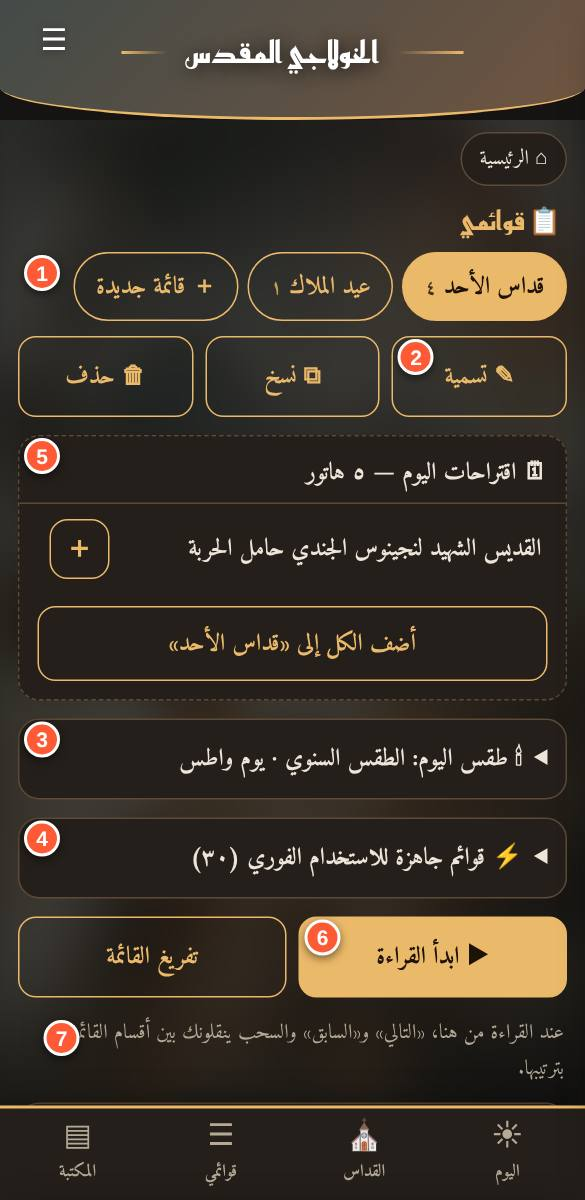
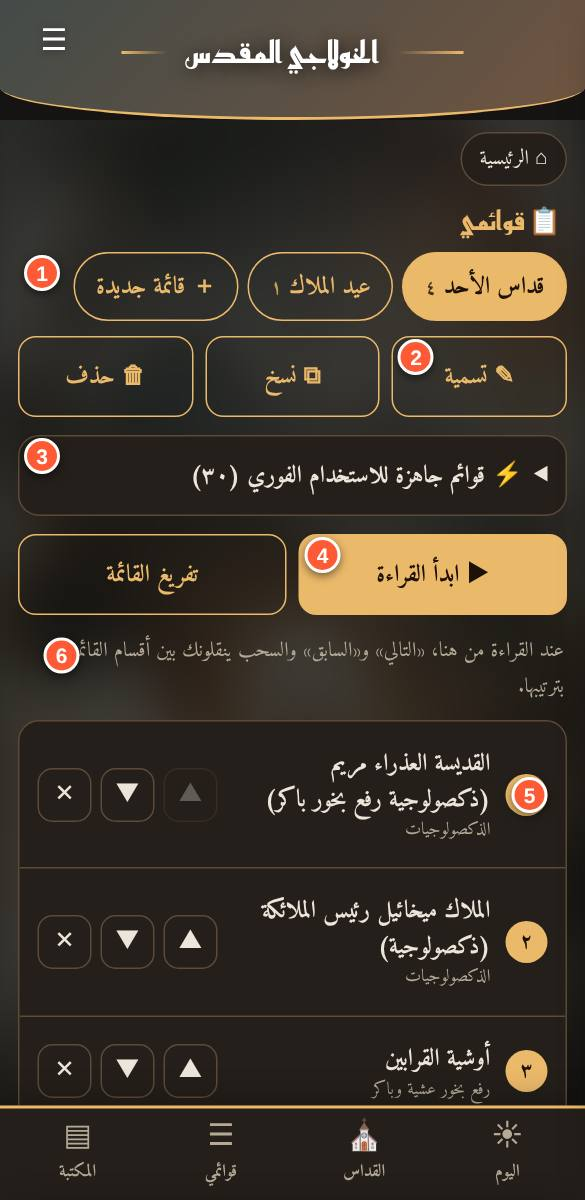
ملاحظات الغطاس والصوم والآلام والقيامة والصعود والعنصرة في طقس اليوم، وتصحيح الشعانين وسبت لعازر
Claude-Session: https://claude.ai/code/session_01TxsQH8W41ZBNhnMhe9bVaK

Changed region(s): [[0.0308, 0.37, 0.9846, 0.925], [0.0615, 0.37, 0.0923, 0.4008]]

diff --git a/calendar.js b/calendar.js
@@ -170,6 +170,7 @@ function rite(dt){
   if(holyw)r='الطقس الحزايني';
   else if(palm||cross)r='الطقس الشعانيني';
   else if(joy)r='الطقس الفرايحي';
+  else if(rel===-8)r='الطقس السنوي';
   else if(lent||jonah)r='الطقس الصيامي';
   else if(c.m===4)r='الطقس الكيهكي';
   else r='الطقس السنوي';
@@ -179,9 +180,10 @@ function rite(dt){
   /* الليلويا وطاي شوري */
   if(!thu&&!jsat){
     var f1=joy||(rel===-8)||(fastN&&(sat||sun))||cross||(c.m===1&&c.d<17);
-    if(cross)h.push('ليلويا فاي بيه بي','تي شوري');
+    if(palm)h.push('ليلويا فاي بيه بي','طاي شوري');
+    else if(cross)h.push('ليلويا فاي بيه بي','تي شوري');
     else if(f1)h.push('ليلويا فاي بيه بي','طاي شوري');
-    else if((lent||jonah)&&!sat&&!sun)h.push('ليلويا إي إيه إيخون','إنثو تيه تي شوري');
+    else if((lent||jonah||holyw)&&!sat&&!sun)h.push('ليلويا إي إيه إيخون','إنثو تيه تي شوري');
     else if((!fastN&&!lent&&!jonah&&(wd===3||wd===5))||(fastN&&!sat&&!sun)||((lent||palm)&&(sat||sun)))h.push('ليلويا چيه إفميه في','تي شوري');
   }
   /* چيه آف ... */
@@ -205,6 +207,16 @@ function rite(dt){
   if(m29)on.push('٢٩ من الشهر القبطي (تذكار البشارة والميلاد والقيامة): الطقس فرايحي، وتُصلَّى مزامير الساعتين الثالثة والسادسة فقط، ولا صوم انقطاعي ولا ميطانيات. إن وقع في أربعاء أو جمعة أو في الأصوام يُكتفى بعدم الصوم الانقطاعي دون الفطر. قراءات اليوم كما في القطمارس، ويُقال چيه آك طونك حتى لو كان أحدا. (ص ١٢٠–١٢١)');
   if(c.m===4&&c.d<=27)on.push('شهر كيهك: في الأيام ما عدا السبوت والآحاد تُصلَّى الساعات الثالثة والسادسة والتاسعة ويُقال «الليلويا چيه إفميه في» و«تي شوري»؛ أما السبوت والآحاد فتُصلَّى الثالثة والسادسة فقط ويُقال «الليلويا فاي بيه بي» و«طاي شوري». القسمة الخاصة بصوم وعيد الميلاد، ويُقال چيه آك إي طوال الشهر حتى في الآحاد. (ص ٣)');
   if((c.m===4&&c.d>=28)||(c.m===5&&c.d<=6))on.push('الميلاد: الطقس الفرايحي من ٢٩ كيهك إلى ٦ طوبة، ويُقال چيه آف ماسك من برامون الميلاد إلى عيد الختان، وتُصام الأربعاء والجمعة بين الميلاد والختان بلا انقطاع عن الطعام لأنها أيام فرايحي، ولا يجوز صومهما إن وقعا في عيد الميلاد نفسه. البرامون بالطقس السنوي وتُصلَّى المزامير حتى الساعة الثانية عشرة. لا تُصلَّى المزامير في عيد الميلاد قبل تقديم الحمل. (ص ٨٨–٨٩)');
+  if((c.m===5&&c.d>=11&&c.d<=13)||(c.m===5&&c.d===10))on.push('الغطاس: لا يجوز صوم الأربعاء أو الجمعة إن وقعا في عيد الميلاد أو الغطاس. الطقس الفرايحي من ١١ طوبة (الغطاس) إلى ١٣ طوبة (عرس قانا). يُصلَّى برامون الغطاس بالطقس السنوي ويكون قداسه متأخرا (صوم انقطاعي إلا إن وقع سبتا أو أحدا). يُقال چيه آكتشي أومس من البرامون إلى ثاني يوم العيد، وتُقال قسمة الغطاس من البرامون حتى ثاني يوم العيد، ويُقال الترحيم لكن ليس بالنغمة الحزايني. لا تُصلَّى المزامير في قداس العيد، وتُصلَّى مزامير الساعتين الثالثة والسادسة في قداس ثاني يوم. لا يوجد قداس للقان في ثاني يوم. (ص ٢–٣)');
+  if(rel===-8)on.push('سبت لعازر: يُصلَّى بالطقس السنوي، ويُصام لكن لا يُصام انقطاعيا. تُصلَّى الساعتان الثالثة والسادسة فقط، ونبوات السبت تُقرأ بلا ميطانيات أو طلبة. يُقال «الليلويا فاي بيه بي» و«طاي شوري» وچيه آك إي، وجملة ختام الصلوات «بارك أهوية السماء». (ص ٣)');
+  if(palm)on.push('أحد الشعانين: يُصلَّى بالنغمة الشعانيني والفرايحي، وتُصلَّى مزامير الساعتين الثالثة والسادسة فقط. لا يُقرأ السنكسار، وتُقال قسمة أحد الشعانين. صلوات الساعة التاسعة والحادية عشرة تكون مع صلوات ليلة الاثنين (مساء الأحد). الجناز العام بعد القداس مباشرة بالطقس السنوي. يُقال چيه آك إي، و«الليلويا فاي بيه بي» و«طاي شوري». الترحيم بغير النغمة الحزايني. هو عيد سيدي كبير لكن لا يُفطَر فيه ولا يُصام انقطاعيا. (ص ٣١–٣٢)');
+  if(lent&&rel!==-8&&!palm)on.push('الصوم الكبير: الصوم من الاثنين إلى الجمعة انقطاعي مع الميطانيات، أما السبوت والآحاد فلا انقطاع ولا ميطانيات. لا يُقال «الليلويا فاي بيه بي» إلا في سبت لعازر وأحد الشعانين. لا يُستخدم الدف من الاثنين إلى الجمعة ما عدا أول أيام الصوم وجمعة ختام الصوم. لا تُقام صلوات عشية في أيام الصوم لأن القداسات تخرج متأخرة ورفع بخور عشية رمز الذبيحة المسائية. تُطفأ الشموع ويُسدل ستر الهيكل في باكر أيام الصوم. في أحد رفاع الصوم تُقرأ قراءات قطمارس الصوم. فصح يونان بالطقس السنوي. (ص ٦–٧)');
+  if(holyw)on.push('أسبوع الآلام: الطقس الحزايني؛ تُصلَّى الكنيسة في الخورس الثاني ويُغطَّى ستر الهيكل بستر أسود. تنقسم الصلوات إلى نهارية ومسائية (خمس ساعات نهارية وخمس مسائية)، ويُحسب اليوم من الغروب إلى غروب اليوم التالي. لا تُقام قداسات الاثنين والثلاثاء والأربعاء، ولا تُصلَّى صلوات السواعي «الأجبية». (من ملاحظات أسبوع الآلام)');
+  if(jsat)on.push('سبت الفرح: ليلة انتقالية بين الصلبوت والقيامة، وهو السبت الوحيد الذي يُصام انقطاعيا في السنة. ألحانها مزيج من الحزايني والسنوي، ويلبس الكهنة البرانس الفرايحي. يُقال چيه آف آشك طوال الليلة، ولا يُقال «الليلويا فاي بيه بي» أو «چيه إفميه في»، وتُقال «سوتيس آمين» دمجا. تُقال ثلاث تقديسات (أوسطاڤروثيس) ولا تُقال صلاة الصلح، ويُقرأ قانون الإيمان كاملا. (ص ٢–٣)');
+  if(pasc)on.push('القيامة والخمسون: الطقس الفرايحي من ليلة القيامة إلى نهاية الخمسين، ولا تُصلَّى المزامير في العيد قبل تقديم الحمل (بلحن إبؤرو)، وتُصلَّى مزامير الساعتين الثالثة والسادسة فقط. يُقال «الليلويا فاي بيه بي» و«طاي شوري» وچيه آكطونك طوال الخمسين. لا يُقرأ السنكسار ولا ميطانيات، ويُقال الترحيم بغير النغمة الحزايني، ولا يجوز صوم الأربعاء والجمعة. لا تُقام عشية يوم القيامة لأن قداس سبت النور ينتهي قبل الغروب، وتُصلَّى في مساء الأحد صلاة «عشية الأبواب المغلقة». (ص ٣–٤)');
+  if(rel===7)on.push('أحد توما: اليوم الثامن للقيامة وأحد الأعياد السيدية الصغرى، وطقسه كطقس الفترة من القيامة إلى اليوم ٣٩. تُقال ذكصولوجية القديس توما بعد ذكصولوجية القيامة، ولحن «توماس» بعد الإبركسيس أو في التوزيع، ومرد الإنجيل الخاص، والأسبازموس الآدام الأول للقيامة. (ص ١٤٩)');
+  if(rel===39)on.push('الصعود: دائما يوم الخميس وهو اليوم الأربعون من القيامة. الطقس فرايحي، وتُصلَّى مزامير الساعتين الثالثة والسادسة فقط، ويُقال «الليلويا فاي بيه بي» و«طاي شوري» وچيه آكطونك. لا يُقرأ السنكسار، ولا ميطانيات، ولا يجوز صوم الأربعاء والجمعة. تُقال الثلاث تقديسات (أو آناسطاس إكطون نيكرون…). (ص ١٧١–١٧٢)');
+  if(rel===49)on.push('العنصرة: أحد الأعياد السيدية السبعة الكبرى بالطقس الفرايحي. تُصلَّى مزامير الساعة الثالثة فقط وإنجيلها بدون القطع، ثم تُقال القطع بعد الإبركسيس. يُقال «الليلويا فاي بيه بي» و«طاي شوري» وچيه آكطونك، ولا يُقرأ السنكسار، وتُقال الثلاث تقديسات كما في الصعود. دورة القيامة في رفع بخور باكر بعد «إفنوتي ناي نان» داخل الهيكل وخارجه. (ص ٢٣٧)');
   return {rite:r,occNotes:on,doxTune:dt6,tune:tune,tuneDays:tune==='آدام'?'الأحد والاثنين والثلاثاء':'الأربعاء والخميس والجمعة والسبت',hymns:h,notes:n};
 }
 

diff --git a/guide-news.js b/guide-news.js
@@ -1,6 +1,7 @@
 /* سجل الميزات الجديدة (الأحدث أولا). كل ميزة جديدة تُضاف هنا كمدخل جديد في أعلى القائمة،
    ثم تُحدَّث مواصفة الصفحة المتأثرة في tools/make-guide.js وتُعاد اللقطات (node tools/make-guide.js). */
 window.KG_NEWS=[
+{v:"r167",t:"ملاحظات كل المواسم في «طقس اليوم»",x:"أُضيفت ملاحظات الغطاس وسبت لعازر وأحد الشعانين والصوم الكبير وأسبوع الآلام وسبت الفرح والقيامة والخمسين وأحد توما والصعود والعنصرة من «ملاحظات طقسية» في كتاب أسامة لطفي. وتصحيح: الشعانين «فاي بيه بي» و«طاي شوري»، وسبت لعازر بالطقس السنوي، وأسبوع الآلام «إي إيه إيخون» في أيامه. مسوّدة تحتاج مراجعة."},
 {v:"r166",t:"ملاحظات المناسبة في «طقس اليوم»",x:"تضيف بطاقة «طقس اليوم» ملاحظات المناسبة من كتاب أسامة لطفي: أول توت إلى ١٦ توت (النيروز)، عيد الصليب (١٧–١٩ توت و١٠ برمهات)، ٢٩ من الشهر القبطي، شهر كيهك، والميلاد حتى الختان، وتصحيح لحن الصليب إلى «تي شوري». مسوّدة تحتاج مراجعة."},
 {v:"r165",t:"تعريف الآدام والواطس في بطاقة اليوم",x:"بطاقة «طقس اليوم» صارت تشرح بنص قاموس كتاب أسامة لطفي: الآدام (الأحد–الثلاثاء) والواطس (الأربعاء–السبت) للإبصاليات والثيؤطوكيات والألباش والأسبازموس، وذكصولوجيات رفع البخور على ستة أوزان بحسب الطقس، وتبيّن وزن اليوم."},
 {v:"r164",t:"طقس اليوم: الآدام والواطس والألحان",x:"بطاقة «طقس اليوم» في «قوائمي» وفي «ألحان المناسبات» تحسب من التاريخ: الطقس (فرايحي، كيهكي، صيامي، حزايني، شعانيني، سنوي)، ويوم آدام (الأحد–الثلاثاء) أو واطس (الأربعاء–السبت)، وأي ليلويا وطاي شوري وچيه تُقال، وأواشي القرابين والمرضى والمسافرين والراقدين، مأخوذة من «ملاحظات طقسية» في كتاب أسامة لطفي. مسوّدة تحتاج مراجعة."},

diff --git a/sw.js b/sw.js
@@ -1,4 +1,4 @@
-const CACHE_NAME='khulagi-v1.5-shell-r166';
+const CACHE_NAME='khulagi-v1.5-shell-r167';
 const FILES=['./','index.html','icon-192.png','icon-512.png','guide-news.js','calendar.js','content-tawzi.txt','guide-pages.js','guide/doxologies.jpg','guide/occasions.jpg','guide/library.jpg','guide/lists.jpg','guide/lit.jpg','guide/notes.jpg','guide/post.jpg','guide/pre.jpg','guide/reader.jpg','guide/settings.jpg','guide/sidx.jpg','guide/splash.jpg','guide/story.jpg','guide/today.jpg','reemkufi-arabic-700-normal.woff2','dawn.jpg','data.js','study.js','swipe.js','live.js','story.js','study-data.js','data-bible.js','content-raf.txt','content-bas.txt','content-greg.txt','content-cyr.txt','content-qisam.txt','content-misc.txt','content-bless.txt','content-app.txt','content-taqs.txt','content-dox.txt','manifest.webmanifest','amiri-arabic-400-normal.woff2','amiri-arabic-700-normal.woff2','amiri-latin-400-normal.woff2','tajawal-arabic-400.woff2','tajawal-latin-400.woff2','tajawal-arabic-700.woff2','tajawal-latin-700.woff2','cairo-arabic-400-normal.woff2','cairo-arabic-700-normal.woff2','el-messiri-arabic-400-normal.woff2','el-messiri-arabic-700-normal.woff2','lateef-arabic-400-normal.woff2','lateef-arabic-700-normal.woff2','markazi-text-arabic-400-normal.woff2','markazi-text-arabic-700-normal.woff2','noto-naskh-arabic-arabic-400-normal.woff2','noto-naskh-arabic-arabic-700-normal.woff2','reem-kufi-arabic-400-normal.woff2','reem-kufi-arabic-700-normal.woff2','scheherazade-new-arabic-400-normal.woff2','scheherazade-new-arabic-700-normal.woff2','amiri-latin-700-normal.woff2','noto-sans-coptic-coptic-400-normal.woff2','noto-sans-coptic-latin-400-normal.woff2'];
 self.addEventListener('install',e=>{e.waitUntil(caches.open(CACHE_NAME).then(c=>Promise.all(FILES.map(f=>c.add(new Request(f,{cache:'reload'})).catch(()=>{})))).then(()=>self.skipWaiting()))});
 self.addEventListener('activate',e=>{e.waitUntil(caches.keys().then(k=>Promise.all(k.filter(x=>x!==CACHE_NAME).map(x=>caches.delete(x)))).then(()=>self.clients.claim()))});

diff --git a/guide-pages.js b/guide-pages.js
@@ -261,26 +261,21 @@ window.KG_PAGES=[
    ],
    [
     3,
-    "طقس اليوم",
-    "الطقس ويوم آدام/واطس وألحان اليوم وأواشيه؛ اضغط لفتح التفاصيل."
-   ],
-   [
-    4,
     "قوائم جاهزة",
     "قوائم مرتبة لكل مناسبة ولأي أحد؛ اضغط واحدة لتُنسخ إلى قوائمك."
    ],
    [
-    5,
-    "اقتراحات اليوم",
-    "ذكصولوجيات تناسب اليوم. ＋ لإضافتها، أو «أضف الكل»."
-   ],
-   [
-    6,
+    4,
     "ابدأ القراءة",
     "يقرأ من أول قسم ويتنقل بترتيب القائمة."
    ],
    [
-    7,
+    5,
+    "الترتيب",
+    "رقم القسم في القائمة."
+   ],
+   [
+    6,
     "▲ ▼ ✕",
     "تحريك القسم لأعلى أو لأسفل أو حذفه."
    ]
